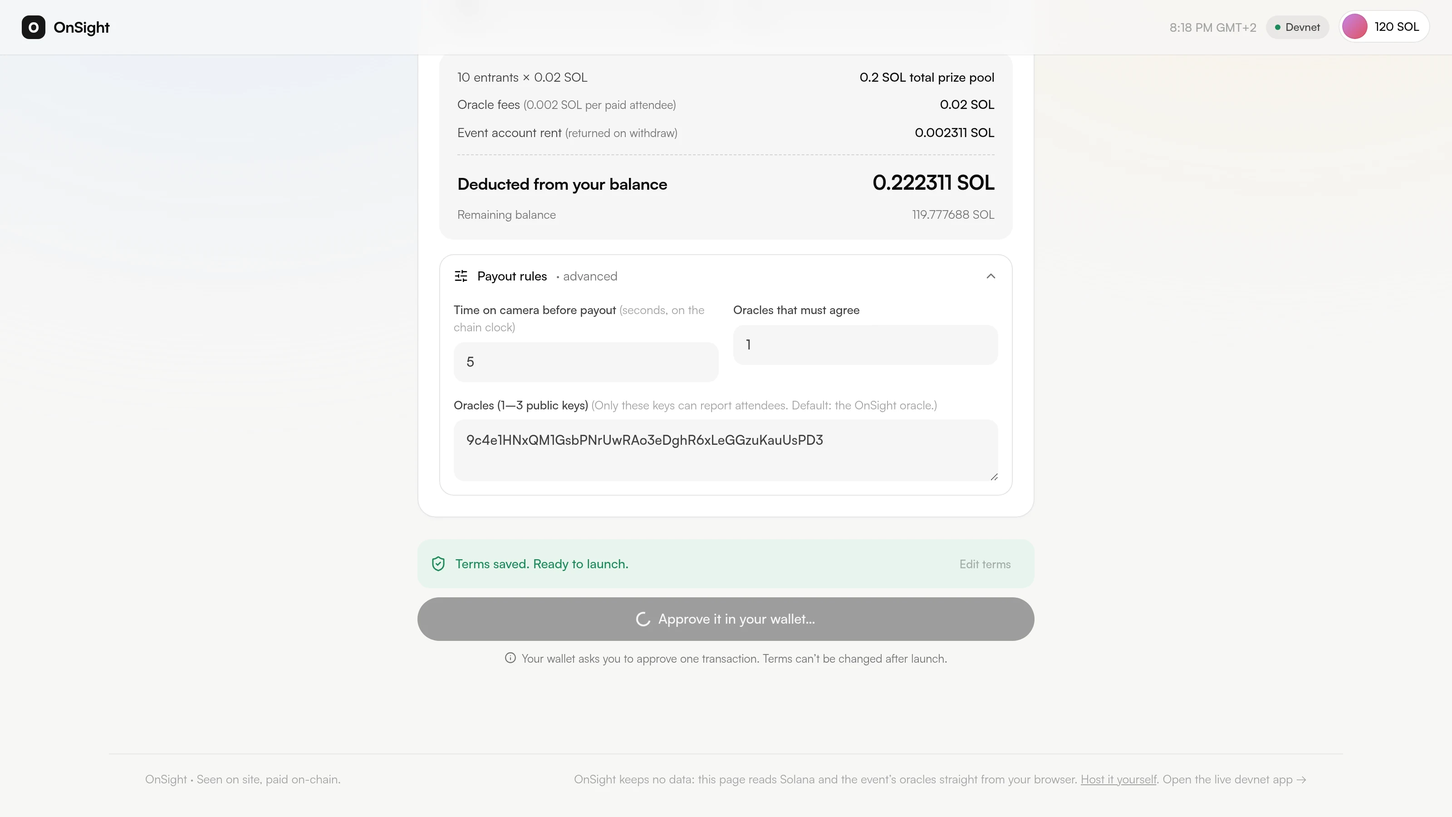
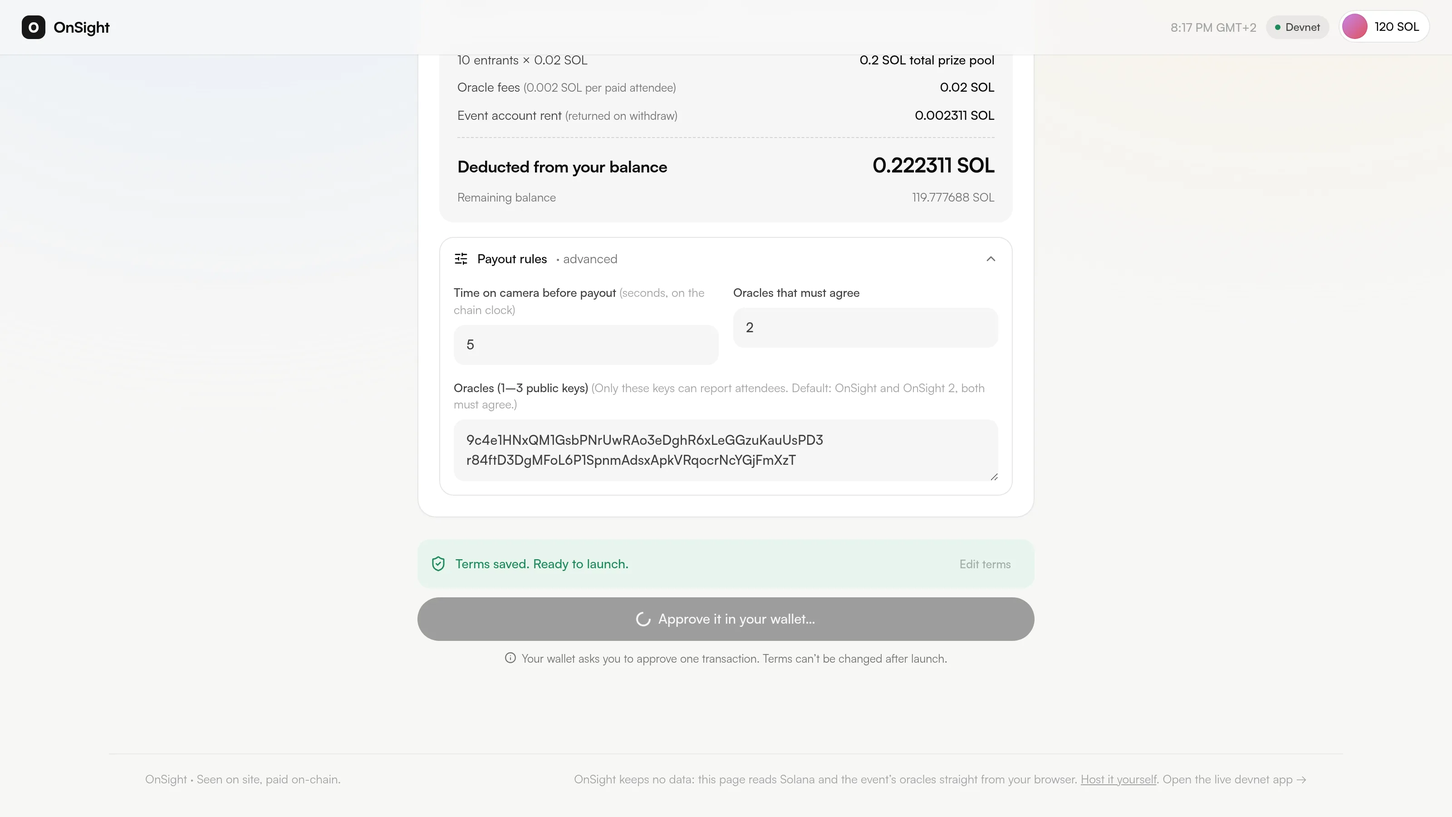
Refresh the judge walkthrough for 2-of-2 events
The walkthrough showed the old app: "New attendance reward", one oracle with
threshold 1, a camera row per oracle, and 0.001 SOL in the narration while its
own screens said 0.02. It is now recaptured from onsight.site: the create flow
from the demo mode (starts now, ends in 15 minutes, two oracles, 2 of 2), and
the dashboard, widget and phone from a real 2-of-2 devnet event
(FFXJQwFP...) with a real pairing, a real join to both oracles and a real
0.02 SOL payout. The old capture relabelled a 0.001 SOL event as 0.02 and
faked the frames, join and payout; now only the player's orange-to-green
frames are staged. The narration, the MetaMask popups (amount 0.222311 SOL,
the real addresses) and the payout-rules highlight follow.

diff --git a/videos/judge-walkthrough/compositions/create.html b/videos/judge-walkthrough/compositions/create.html
@@ -63,11 +63,11 @@
   <div class="side" id="create-side">
     <div class="kicker">Step 2 of 6</div>
     <h1 class="title">Create the event</h1>
-    <div class="bullets"><div class="b" id="create-b0"><i></i><span>Click <strong>Create event</strong></span></div><div class="b" id="create-b1"><i></i><span>Name it, start it <strong>now</strong>, end it in an hour</span></div><div class="b" id="create-b2"><i></i><span>Defaults: <strong>0.001 SOL</strong> for <strong>10</strong> people</span></div><div class="b" id="create-b3"><i></i><span>Payout rules: <strong>5 s</strong> on camera and the OnSight oracle</span></div><div class="b" id="create-b4"><i></i><span><strong>Save terms</strong></span></div></div>
+    <div class="bullets"><div class="b" id="create-b0"><i></i><span>Click <strong>Create event</strong></span></div><div class="b" id="create-b1"><i></i><span>Name it. It starts <strong>now</strong> and ends in <strong>15 minutes</strong></span></div><div class="b" id="create-b2"><i></i><span>Defaults: <strong>0.02 SOL</strong> for <strong>10</strong> people</span></div><div class="b" id="create-b3"><i></i><span>Payout rules: <strong>5 s</strong> on camera, and <strong>2 of 2</strong> oracles must agree</span></div><div class="b" id="create-b4"><i></i><span><strong>Save terms</strong></span></div></div>
   </div>
   <div class="win" id="create-win">
     <div class="bar"><span class="dot"></span><span class="dot"></span><span class="dot"></span><span class="url">onsight.site/#/new</span></div>
-    <div class="view"><div class="cam" id="create-cam" data-layout-allow-overflow><img class="scr" id="create-i0" src="assets/screens/a2-overview.webp" alt=""><img class="scr" id="create-i1" src="assets/screens/b2-setup-details.webp" alt=""><img class="scr" id="create-i2" src="assets/screens/b3-rewards.webp" alt=""><img class="scr" id="create-i3" src="assets/screens/b4-rules.webp" alt=""><div class="hl" id="create-h0" style="left:377.6px;top:246.4px;width:524.8px;height:292.0px"></div><div class="hl" id="create-h1" style="left:378.40000000000003px;top:236.8px;width:521.6px;height:60.800000000000004px"></div><div class="hl" id="create-h2" style="left:389.6px;top:292.8px;width:253.60000000000002px;height:59.2px"></div><div class="ripple" id="create-rip"></div><div class="cursor" id="create-cur"><svg viewBox="0 0 30 36" width="30" height="36"><path d="M2 2 L2 28 L9 21.5 L14 33 L19 31 L14 19.5 L24 19.5 Z" fill="#15161A" stroke="#fff" stroke-width="2" stroke-linejoin="round"/></svg></div></div></div>
+    <div class="view"><div class="cam" id="create-cam" data-layout-allow-overflow><img class="scr" id="create-i0" src="assets/screens/a2-overview.webp" alt=""><img class="scr" id="create-i1" src="assets/screens/b2-setup-details.webp" alt=""><img class="scr" id="create-i2" src="assets/screens/b3-rewards.webp" alt=""><img class="scr" id="create-i3" src="assets/screens/b4-rules.webp" alt=""><div class="hl" id="create-h0" style="left:377.6px;top:246.4px;width:524.8px;height:292.0px"></div><div class="hl" id="create-h1" style="left:378.40000000000003px;top:236.8px;width:521.6px;height:60.800000000000004px"></div><div class="hl" id="create-h2" style="left:380.8px;top:241.60000000000002px;width:518.4000000000001px;height:198.4px"></div><div class="ripple" id="create-rip"></div><div class="cursor" id="create-cur"><svg viewBox="0 0 30 36" width="30" height="36"><path d="M2 2 L2 28 L9 21.5 L14 33 L19 31 L14 19.5 L24 19.5 Z" fill="#15161A" stroke="#fff" stroke-width="2" stroke-linejoin="round"/></svg></div></div></div>
   </div>
   
 </div>
@@ -92,13 +92,13 @@ tl.fromTo("#create-h2", {opacity: 0, scale: 1.06}, {opacity: 1, scale: 1, durati
 tl.to("#create-h2", {opacity: 0, duration: 0.25}, 11.4);
 tl.to("#create-cam", {scale: 1.45, transformOrigin: "640.0px 312.0px", duration: 0.7, ease: "power2.inOut"}, 5.5);
 tl.to("#create-cam", {scale: 1, duration: 0.6, ease: "power2.inOut"}, 8.2);
-tl.to("#create-cam", {scale: 1.5, transformOrigin: "512.0px 336.0px", duration: 0.7, ease: "power2.inOut"}, 9.2);
+tl.to("#create-cam", {scale: 1.4, transformOrigin: "640.0px 342.40000000000003px", duration: 0.7, ease: "power2.inOut"}, 9.2);
 tl.to("#create-cam", {scale: 1, duration: 0.6, ease: "power2.inOut"}, 11.3);
 tl.fromTo("#create-cur", {x: 880.0, y: 320.0, opacity: 0}, {x: 880.0, y: 320.0, opacity: 1, duration: 0.15}, 0.2);
 tl.to("#create-cur", {x: 1145.6000000000001, y: 125.60000000000001, duration: 0.7, ease: "power2.inOut"}, 0.4);
 tl.to("#create-cur", {x: 560.0, y: 224.0, duration: 0.6, ease: "power2.inOut"}, 2.2);
 tl.to("#create-cur", {x: 736.0, y: 264.0, duration: 0.6, ease: "power2.inOut"}, 5.3);
-tl.to("#create-cur", {x: 512.0, y: 323.20000000000005, duration: 0.6, ease: "power2.inOut"}, 9.0);
+tl.to("#create-cur", {x: 760.0, y: 292.0, duration: 0.6, ease: "power2.inOut"}, 9.0);
 tl.to("#create-cur", {x: 640.0, y: 497.6, duration: 0.6, ease: "power2.inOut"}, 11.6);
 tl.to("#create-cur", {scale: 0.82, duration: 0.08, yoyo: true, repeat: 1, transformOrigin: "2px 2px"}, 1.25);
 tl.fromTo("#create-rip", {opacity: 0.7, scale: 0.3, x: 1145.6000000000001, y: 125.60000000000001}, {opacity: 0, scale: 1.6, duration: 0.5, ease: "power2.out", immediateRender: false}, 1.25);

diff --git a/videos/judge-walkthrough/compositions/join.html b/videos/judge-walkthrough/compositions/join.html
@@ -66,11 +66,11 @@
     <div class="bullets"><div class="b" id="join-b0"><i></i><span>On the dashboard, open the <strong>Attendee page</strong></span></div><div class="b" id="join-b1"><i></i><span><strong>Sign up with MetaMask</strong></span></div><div class="b" id="join-b2"><i></i><span>Take <strong>one selfie</strong></span></div><div class="b" id="join-b3"><i></i><span><strong>Agree & join</strong> and sign. Free: no transaction</span></div></div>
   </div>
   <div class="win" id="join-win">
-    <div class="bar"><span class="dot"></span><span class="dot"></span><span class="dot"></span><span class="url">onsight.site/?event=2jQMau…</span></div>
-    <div class="view"><div class="cam" id="join-cam" data-layout-allow-overflow><img class="scr" id="join-i0" src="assets/screens/d1-attendee.webp" alt=""><img class="scr" id="join-i1" src="assets/screens/d2-connected.webp" alt=""><img class="scr" id="join-i2" src="assets/screens/d3-selfie.webp" alt=""><img class="scr" id="join-i3" src="assets/screens/d4-consent.webp" alt=""><img class="scr" id="join-i4" src="assets/screens/d6-signing.webp" alt=""><img class="scr" id="join-i5" src="assets/screens/d7-done.webp" alt=""><div class="mm" id="join-mm0"><div class="mm-top"><span class="mm-logo"></span>MetaMask<span class="mm-net">Solana Devnet</span></div><div class="mm-body"><div class="mm-h">Connect this website</div><div class="mm-site">onsight.site</div><div class="mm-acct">Account 1 · A9AP…tG9B</div><div class="mm-site">It can see your address and ask you to sign. It can't move funds.</div></div><div class="mm-btns"><div class="mm-cancel">Cancel</div><div class="mm-ok">Connect</div></div></div><div class="mm" id="join-mm1"><div class="mm-top"><span class="mm-logo"></span>MetaMask<span class="mm-net">Solana Devnet</span></div><div class="mm-body"><div class="mm-h">Signature request</div><div class="mm-site">onsight.site</div><div class="mm-msg">Attend Now
+    <div class="bar"><span class="dot"></span><span class="dot"></span><span class="dot"></span><span class="url">onsight.site/?event=FFXJQw…</span></div>
+    <div class="view"><div class="cam" id="join-cam" data-layout-allow-overflow><img class="scr" id="join-i0" src="assets/screens/d1-attendee.webp" alt=""><img class="scr" id="join-i1" src="assets/screens/d2-connected.webp" alt=""><img class="scr" id="join-i2" src="assets/screens/d3-selfie.webp" alt=""><img class="scr" id="join-i3" src="assets/screens/d4-consent.webp" alt=""><img class="scr" id="join-i4" src="assets/screens/d6-signing.webp" alt=""><img class="scr" id="join-i5" src="assets/screens/d7-done.webp" alt=""><div class="mm" id="join-mm0"><div class="mm-top"><span class="mm-logo"></span>MetaMask<span class="mm-net">Solana Devnet</span></div><div class="mm-body"><div class="mm-h">Connect this website</div><div class="mm-site">onsight.site</div><div class="mm-acct">Account 1 · 2AyX…J2ba</div><div class="mm-site">It can see your address and ask you to sign. It can't move funds.</div></div><div class="mm-btns"><div class="mm-cancel">Cancel</div><div class="mm-ok">Connect</div></div></div><div class="mm" id="join-mm1"><div class="mm-top"><span class="mm-logo"></span>MetaMask<span class="mm-net">Solana Devnet</span></div><div class="mm-body"><div class="mm-h">Signature request</div><div class="mm-site">onsight.site</div><div class="mm-msg">Attend Now
 Action: join
-Event: 2jQM…MrXz
-Wallet: A9AP…tG9B
+Event: FFXJ…fiKr
+Wallet: 2AyX…J2ba
 Consent: 2026-10-03</div><div class="mm-site">Free: no transaction.</div></div><div class="mm-btns"><div class="mm-cancel">Cancel</div><div class="mm-ok">Confirm</div></div></div><div class="ripple" id="join-rip"></div><div class="cursor" id="join-cur"><svg viewBox="0 0 30 36" width="30" height="36"><path d="M2 2 L2 28 L9 21.5 L14 33 L19 31 L14 19.5 L24 19.5 Z" fill="#15161A" stroke="#fff" stroke-width="2" stroke-linejoin="round"/></svg></div></div></div>
   </div>
   

diff --git a/videos/judge-walkthrough/compositions/paid.html b/videos/judge-walkthrough/compositions/paid.html
@@ -63,11 +63,11 @@
   <div class="side" id="paid-side">
     <div class="kicker">Step 6 of 6</div>
     <h1 class="title">Get paid</h1>
-    <div class="bullets"><div class="b" id="paid-b0"><i></i><span>Face the phone for <strong>5 seconds</strong></span></div><div class="b" id="paid-b1"><i></i><span>On the dashboard, the box is <strong>orange</strong> while the oracle tracks you</span></div><div class="b" id="paid-b2"><i></i><span>It turns <strong>green</strong> once the program has paid</span></div><div class="b" id="paid-b3"><i></i><span><strong>0.001 SOL</strong> lands in your wallet. Nobody approves it: the payout is a public transaction</span></div></div>
+    <div class="bullets"><div class="b" id="paid-b0"><i></i><span>Face the phone for <strong>5 seconds</strong></span></div><div class="b" id="paid-b1"><i></i><span>On the dashboard, the box is <strong>orange</strong> while the oracles track you</span></div><div class="b" id="paid-b2"><i></i><span>It turns <strong>green</strong> once both oracles agreed and the program paid</span></div><div class="b" id="paid-b3"><i></i><span><strong>0.02 SOL</strong> lands in your wallet. Nobody approves it: the payout is a public transaction</span></div></div>
   </div>
   <div class="win" id="paid-win">
-    <div class="bar"><span class="dot"></span><span class="dot"></span><span class="dot"></span><span class="url">onsight.site/#/events/2jQMau…</span></div>
-    <div class="view"><div class="cam" id="paid-cam" data-layout-allow-overflow><img class="scr" id="paid-i0" src="assets/screens/m0-online.webp" alt=""><img class="scr" id="paid-i1" src="assets/screens/m1-tracking.webp" alt=""><img class="scr" id="paid-i2" src="assets/screens/m2-tracking.webp" alt=""><img class="scr" id="paid-i3" src="assets/screens/m3-tracking.webp" alt=""><img class="scr" id="paid-i4" src="assets/screens/m4-paid.webp" alt=""><img class="scr" id="paid-i5" src="assets/screens/l4-paired.webp" alt=""><img class="scr" id="paid-i6" src="assets/screens/d8-paid.webp" alt=""><div class="hl" id="paid-h0" style="left:132.8px;top:504.0px;width:667.2px;height:44.8px"></div><div class="hl" id="paid-h1" style="left:569.6px;top:444.8px;width:296.8px;height:51.2px"></div><div class="ripple" id="paid-rip"></div><div class="cursor" id="paid-cur"><svg viewBox="0 0 30 36" width="30" height="36"><path d="M2 2 L2 28 L9 21.5 L14 33 L19 31 L14 19.5 L24 19.5 Z" fill="#15161A" stroke="#fff" stroke-width="2" stroke-linejoin="round"/></svg></div></div></div>
+    <div class="bar"><span class="dot"></span><span class="dot"></span><span class="dot"></span><span class="url">onsight.site/#/events/FFXJQw…</span></div>
+    <div class="view"><div class="cam" id="paid-cam" data-layout-allow-overflow><img class="scr" id="paid-i0" src="assets/screens/m0-online.webp" alt=""><img class="scr" id="paid-i1" src="assets/screens/m1-tracking.webp" alt=""><img class="scr" id="paid-i2" src="assets/screens/m2-tracking.webp" alt=""><img class="scr" id="paid-i3" src="assets/screens/m3-tracking.webp" alt=""><img class="scr" id="paid-i4" src="assets/screens/m4-paid.webp" alt=""><img class="scr" id="paid-i5" src="assets/screens/m5-dashboard-paid.webp" alt=""><img class="scr" id="paid-i6" src="assets/screens/d8-paid.webp" alt=""><div class="hl" id="paid-h0" style="left:132.8px;top:504.0px;width:667.2px;height:44.8px"></div><div class="hl" id="paid-h1" style="left:569.6px;top:444.8px;width:296.8px;height:51.2px"></div><div class="ripple" id="paid-rip"></div><div class="cursor" id="paid-cur"><svg viewBox="0 0 30 36" width="30" height="36"><path d="M2 2 L2 28 L9 21.5 L14 33 L19 31 L14 19.5 L24 19.5 Z" fill="#15161A" stroke="#fff" stroke-width="2" stroke-linejoin="round"/></svg></div></div></div>
   </div>
   <div class="phone" id="paid-ph"><img src="assets/screens/e2-streaming.webp" alt=""></div>
 </div>

diff --git a/videos/judge-walkthrough/compositions/camera.html b/videos/judge-walkthrough/compositions/camera.html
@@ -63,14 +63,14 @@
   <div class="side" id="camera-side">
     <div class="kicker">Step 4 of 6</div>
     <h1 class="title">Add the camera</h1>
-    <div class="bullets"><div class="b" id="camera-b0"><i></i><span><strong>Open dashboard</strong>, then <strong>Pair cameras</strong>: one free signature</span></div><div class="b" id="camera-b1"><i></i><span>Click the <strong>QR icon</strong> next to Add a camera</span></div><div class="b" id="camera-b2"><i></i><span>Scan it with your phone. The phone streams to the oracle</span></div></div>
+    <div class="bullets"><div class="b" id="camera-b0"><i></i><span><strong>Open dashboard</strong>, then <strong>Pair cameras</strong>: one free signature</span></div><div class="b" id="camera-b1"><i></i><span>Click the <strong>QR icon</strong> next to Add a camera</span></div><div class="b" id="camera-b2"><i></i><span>Scan it with your phone. It streams one feed to <strong>both oracles</strong></span></div></div>
   </div>
   <div class="win" id="camera-win">
-    <div class="bar"><span class="dot"></span><span class="dot"></span><span class="dot"></span><span class="url">onsight.site/#/events/2jQMau…</span></div>
+    <div class="bar"><span class="dot"></span><span class="dot"></span><span class="dot"></span><span class="url">onsight.site/#/events/FFXJQw…</span></div>
     <div class="view"><div class="cam" id="camera-cam" data-layout-allow-overflow><img class="scr" id="camera-i0" src="assets/screens/l2-dashboard.webp" alt=""><img class="scr" id="camera-i1" src="assets/screens/l4-paired.webp" alt=""><img class="scr" id="camera-i2" src="assets/screens/l5-qr.webp" alt=""><div class="hl" id="camera-h0" style="left:836.8000000000001px;top:516.0px;width:296.0px;height:49.6px"></div><div class="mm" id="camera-mm0"><div class="mm-top"><span class="mm-logo"></span>MetaMask<span class="mm-net">Solana Devnet</span></div><div class="mm-body"><div class="mm-h">Signature request</div><div class="mm-site">onsight.site</div><div class="mm-msg">Attend Now
 Action: camera-token
-Event: 2jQM…MrXz
-Wallet: WiKX…E5bj</div><div class="mm-site">Free: no transaction.</div></div><div class="mm-btns"><div class="mm-cancel">Cancel</div><div class="mm-ok">Confirm</div></div></div><div class="ripple" id="camera-rip"></div><div class="cursor" id="camera-cur"><svg viewBox="0 0 30 36" width="30" height="36"><path d="M2 2 L2 28 L9 21.5 L14 33 L19 31 L14 19.5 L24 19.5 Z" fill="#15161A" stroke="#fff" stroke-width="2" stroke-linejoin="round"/></svg></div></div></div>
+Event: FFXJ…fiKr
+Wallet: 4yrJ…mg15</div><div class="mm-site">Free: no transaction.</div></div><div class="mm-btns"><div class="mm-cancel">Cancel</div><div class="mm-ok">Confirm</div></div></div><div class="ripple" id="camera-rip"></div><div class="cursor" id="camera-cur"><svg viewBox="0 0 30 36" width="30" height="36"><path d="M2 2 L2 28 L9 21.5 L14 33 L19 31 L14 19.5 L24 19.5 Z" fill="#15161A" stroke="#fff" stroke-width="2" stroke-linejoin="round"/></svg></div></div></div>
   </div>
   <div class="phone" id="camera-ph"><img src="assets/screens/e2-empty.webp" alt=""></div>
 </div>

diff --git a/videos/judge-walkthrough/compositions/launch.html b/videos/judge-walkthrough/compositions/launch.html
@@ -67,7 +67,7 @@
   </div>
   <div class="win" id="launch-win">
     <div class="bar"><span class="dot"></span><span class="dot"></span><span class="dot"></span><span class="url">onsight.site/#/new</span></div>
-    <div class="view"><div class="cam" id="launch-cam" data-layout-allow-overflow><img class="scr" id="launch-i0" src="assets/screens/b5-saved.webp" alt=""><img class="scr" id="launch-i1" src="assets/screens/b6-approve.webp" alt=""><img class="scr" id="launch-i2" src="assets/screens/b7-launched.webp" alt=""><div class="hl" id="launch-h0" style="left:359.20000000000005px;top:516.0px;width:561.6px;height:57.6px"></div><div class="mm" id="launch-mm0"><div class="mm-top"><span class="mm-logo"></span>MetaMask<span class="mm-net">Solana Devnet</span></div><div class="mm-body"><div class="mm-h">Transaction request</div><div class="mm-site">onsight.site</div><div class="mm-amt">−0.0323114 SOL</div><div class="mm-row"><span>Program</span><span>on_sight</span></div><div class="mm-row"><span>Instruction</span><span>create_event</span></div><div class="mm-row"><span>Network fee</span><span>0.000005 SOL</span></div></div><div class="mm-btns"><div class="mm-cancel">Cancel</div><div class="mm-ok">Confirm</div></div></div><div class="ripple" id="launch-rip"></div><div class="cursor" id="launch-cur"><svg viewBox="0 0 30 36" width="30" height="36"><path d="M2 2 L2 28 L9 21.5 L14 33 L19 31 L14 19.5 L24 19.5 Z" fill="#15161A" stroke="#fff" stroke-width="2" stroke-linejoin="round"/></svg></div></div></div>
+    <div class="view"><div class="cam" id="launch-cam" data-layout-allow-overflow><img class="scr" id="launch-i0" src="assets/screens/b5-saved.webp" alt=""><img class="scr" id="launch-i1" src="assets/screens/b6-approve.webp" alt=""><img class="scr" id="launch-i2" src="assets/screens/b7-launched.webp" alt=""><div class="hl" id="launch-h0" style="left:359.20000000000005px;top:516.0px;width:561.6px;height:57.6px"></div><div class="mm" id="launch-mm0"><div class="mm-top"><span class="mm-logo"></span>MetaMask<span class="mm-net">Solana Devnet</span></div><div class="mm-body"><div class="mm-h">Transaction request</div><div class="mm-site">onsight.site</div><div class="mm-amt">−0.222311 SOL</div><div class="mm-row"><span>Program</span><span>on_sight</span></div><div class="mm-row"><span>Instruction</span><span>create_event</span></div><div class="mm-row"><span>Network fee</span><span>0.000005 SOL</span></div></div><div class="mm-btns"><div class="mm-cancel">Cancel</div><div class="mm-ok">Confirm</div></div></div><div class="ripple" id="launch-rip"></div><div class="cursor" id="launch-cur"><svg viewBox="0 0 30 36" width="30" height="36"><path d="M2 2 L2 28 L9 21.5 L14 33 L19 31 L14 19.5 L24 19.5 Z" fill="#15161A" stroke="#fff" stroke-width="2" stroke-linejoin="round"/></svg></div></div></div>
   </div>
   
 </div>

diff --git a/videos/judge-walkthrough/compositions/signin.html b/videos/judge-walkthrough/compositions/signin.html
@@ -69,7 +69,8 @@
     <div class="bar"><span class="dot"></span><span class="dot"></span><span class="dot"></span><span class="url">onsight.site</span></div>
     <div class="view"><div class="cam" id="signin-cam" data-layout-allow-overflow><img class="scr" id="signin-i0" src="assets/screens/a1-signin.webp" alt=""><img class="scr" id="signin-i1" src="assets/screens/a2-overview.webp" alt=""><div class="mm" id="signin-mm0"><div class="mm-top"><span class="mm-logo"></span>MetaMask<span class="mm-net">Solana Devnet</span></div><div class="mm-body"><div class="mm-h">Signature request</div><div class="mm-site">onsight.site</div><div class="mm-msg">Sign in to OnSight as an event organiser.
 
-Wallet: WiKX…E5bj
+Wallet: 4yrJ…mg15
+Time: 2026-10-04T07:42:51Z
 
 This costs nothing and sends no transaction.</div></div><div class="mm-btns"><div class="mm-cancel">Cancel</div><div class="mm-ok">Confirm</div></div></div><div class="ripple" id="signin-rip"></div><div class="cursor" id="signin-cur"><svg viewBox="0 0 30 36" width="30" height="36"><path d="M2 2 L2 28 L9 21.5 L14 33 L19 31 L14 19.5 L24 19.5 Z" fill="#15161A" stroke="#fff" stroke-width="2" stroke-linejoin="round"/></svg></div></div></div>
   </div>

diff --git a/videos/judge-walkthrough/build.py b/videos/judge-walkthrough/build.py
@@ -1,7 +1,9 @@
 """Generates the judge walkthrough: index.html plus one sub-composition per scene in compositions/.
 
-The screens in assets/screens are real captures of the app at 1600x900 (2x). Cursor targets, highlights and zooms
-are in those 1600x900 page coordinates; the browser window shows the page at 0.8 scale (1280x720).
+The screens in assets/screens are captures of onsight.site at 1600x900 (2x): the create flow from its demo mode; the
+dashboard, widget and phone from a real 2-of-2 devnet event (EVENT below) with a real join and payout. Only the
+player's orange-to-green frames (m1-m4) are staged, from a mocked camera stream on that event. Cursor targets,
+highlights and zooms are in those 1600x900 page coordinates; the browser window shows the page at 0.8 scale.
 Run: python3 build.py, then npx hyperframes check / preview / render.
 """
 import html
@@ -11,9 +13,9 @@ from pathlib import Path
 ROOT = Path(__file__).parent
 W, H = 1920, 1080
 S = 0.8  # page px -> window px
-EVENT = "2jQMau7m7H1cMMHYPv6XKH1k7xqhWhCsfUixktTtMrXz"
-ORGANIZER = "WiKXqZBj3kPCKe3N5QU3gKGnkFjgaZQaTYSvaZzE5bj"
-ATTENDEE = "A9APM9cNTY1Xa6eT3HQ8yEsrGdQdQGZJ8cditY9CtG9B"
+EVENT = "FFXJQwFPcZZqMR6wbHuFGLzZVVP2LotneUAeRjzXfiKr"
+ORGANIZER = "4yrJ5j7TuLjRQtXCSzJedkZPzB8X4NTbur8VBUojmg15"
+ATTENDEE = "2AyXNVWf63XupvZVMYty8ifZ5v1SCaQ9yd82ngAfJ2ba"
 
 
 def short(a):
@@ -91,7 +93,7 @@ def popup(sid, k, kind):
                '<div class="mm-site">It can see your address and ask you to sign. It can\'t move funds.</div>'
         ok = "Connect"
     elif kind == "signin":
-        msg = f"Sign in to OnSight as an event organiser.\n\nWallet: {short(ORGANIZER)}\n\nThis costs nothing and sends no transaction."
+        msg = f"Sign in to OnSight as an event organiser.\n\nWallet: {short(ORGANIZER)}\nTime: 2026-10-04T07:42:51Z\n\nThis costs nothing and sends no transaction."
         body = f'<div class="mm-h">Signature request</div>{site}<div class="mm-msg">{html.escape(msg)}</div>'
         ok = "Confirm"
     elif kind == "pair":
@@ -105,7 +107,7 @@ def popup(sid, k, kind):
                '<div class="mm-site">Free: no transaction.</div>'
         ok = "Confirm"
     else:  # tx
-        body = f'<div class="mm-h">Transaction request</div>{site}<div class="mm-amt">−0.0323114 SOL</div>' \
+        body = f'<div class="mm-h">Transaction request</div>{site}<div class="mm-amt">−0.222311 SOL</div>' \
                '<div class="mm-row"><span>Program</span><span>on_sight</span></div>' \
                '<div class="mm-row"><span>Instruction</span><span>create_event</span></div>' \
                '<div class="mm-row"><span>Network fee</span><span>0.000005 SOL</span></div>'
@@ -245,15 +247,15 @@ scenes.append(scene(
 
 scenes.append(scene(
     "create", "Step 2 of 6", "Create the event",
-    [(0.4, "Click <strong>Create event</strong>"), (1.9, "Name it, start it <strong>now</strong>, end it in an hour"),
-     (5.2, "Defaults: <strong>0.001 SOL</strong> for <strong>10</strong> people"),
-     (8.8, "Payout rules: <strong>5 s</strong> on camera and the OnSight oracle"), (11.8, "<strong>Save terms</strong>")],
+    [(0.4, "Click <strong>Create event</strong>"), (1.9, "Name it. It starts <strong>now</strong> and ends in <strong>15 minutes</strong>"),
+     (5.2, "Defaults: <strong>0.02 SOL</strong> for <strong>10</strong> people"),
+     (8.8, "Payout rules: <strong>5 s</strong> on camera, and <strong>2 of 2</strong> oracles must agree"), (11.8, "<strong>Save terms</strong>")],
     "onsight.site/#/new",
     [(0, "a2-overview"), (1.6, "b2-setup-details"), (5.0, "b3-rewards"), (8.6, "b4-rules")],
-    cursor=[(0.2, 1100, 400, 0), (0.4, 1432, 157, 0.7), (2.2, 700, 280, 0.6), (5.3, 920, 330, 0.6), (9.0, 640, 404, 0.6), (11.6, 800, 622, 0.6)],
+    cursor=[(0.2, 1100, 400, 0), (0.4, 1432, 157, 0.7), (2.2, 700, 280, 0.6), (5.3, 920, 330, 0.6), (9.0, 950, 365, 0.6), (11.6, 800, 622, 0.6)],
     clicks=[1.25, 12.35],
-    hls=[(2.4, 4.8, 482, 318, 636, 345), (5.6, 8.4, 483, 306, 632, 56), (9.3, 11.4, 497, 376, 297, 54)],
-    zooms=[(5.5, 8.2, 800, 390, 1.45), (9.2, 11.3, 640, 420, 1.5)],
+    hls=[(2.4, 4.8, 482, 318, 636, 345), (5.6, 8.4, 483, 306, 632, 56), (9.3, 11.4, 486, 312, 628, 228)],
+    zooms=[(5.5, 8.2, 800, 390, 1.45), (9.2, 11.3, 800, 428, 1.4)],
     dur=13,
 ))
 
@@ -273,7 +275,7 @@ scenes.append(scene(
 scenes.append(scene(
     "camera", "Step 4 of 6", "Add the camera",
     [(0.4, "<strong>Open dashboard</strong>, then <strong>Pair cameras</strong>: one free signature"),
-     (4.4, "Click the <strong>QR icon</strong> next to Add a camera"), (7.8, "Scan it with your phone. The phone streams to the oracle")],
+     (4.4, "Click the <strong>QR icon</strong> next to Add a camera"), (7.8, "Scan it with your phone. It streams one feed to <strong>both oracles</strong>")],
     f"onsight.site/#/events/{EVENT[:6]}…",
     [(0, "l2-dashboard"), (3.6, "l4-paired"), (5.3, "l5-qr")],
     cursor=[(0.3, 700, 500, 0), (0.6, 1230, 676, 0.9), (2.2, MM_OK[0], MM_OK[1], 0.6), (4.2, 1348, 700, 0.7)],
@@ -297,11 +299,11 @@ scenes.append(scene(
 scenes.append(scene(
     "paid", "Step 6 of 6", "Get paid",
     [(0.4, "Face the phone for <strong>5 seconds</strong>"),
-     (1.8, "On the dashboard, the box is <strong>orange</strong> while the oracle tracks you"),
-     (7.0, "It turns <strong>green</strong> once the program has paid"),
-     (9.2, "<strong>0.001 SOL</strong> lands in your wallet. Nobody approves it: the payout is a public transaction")],
+     (1.8, "On the dashboard, the box is <strong>orange</strong> while the oracles track you"),
+     (7.0, "It turns <strong>green</strong> once both oracles agreed and the program paid"),
+     (9.2, "<strong>0.02 SOL</strong> lands in your wallet. Nobody approves it: the payout is a public transaction")],
     f"onsight.site/#/events/{EVENT[:6]}…",
-    [(0, "m0-online"), (1.6, "m1-tracking"), (3.4, "m2-tracking"), (5.2, "m3-tracking"), (7.0, "m4-paid"), (9.2, "l4-paired"), (12.2, "d8-paid")],
+    [(0, "m0-online"), (1.6, "m1-tracking"), (3.4, "m2-tracking"), (5.2, "m3-tracking"), (7.0, "m4-paid"), (9.2, "m5-dashboard-paid"), (12.2, "d8-paid")],
     cursor=[(0.3, 1000, 450, 0), (0.5, 1400, 626, 0.8)],
     clicks=[1.4],
     hls=[(9.6, 11.8, 176, 640, 814, 36), (12.6, 15.6, 722, 566, 351, 44)],
